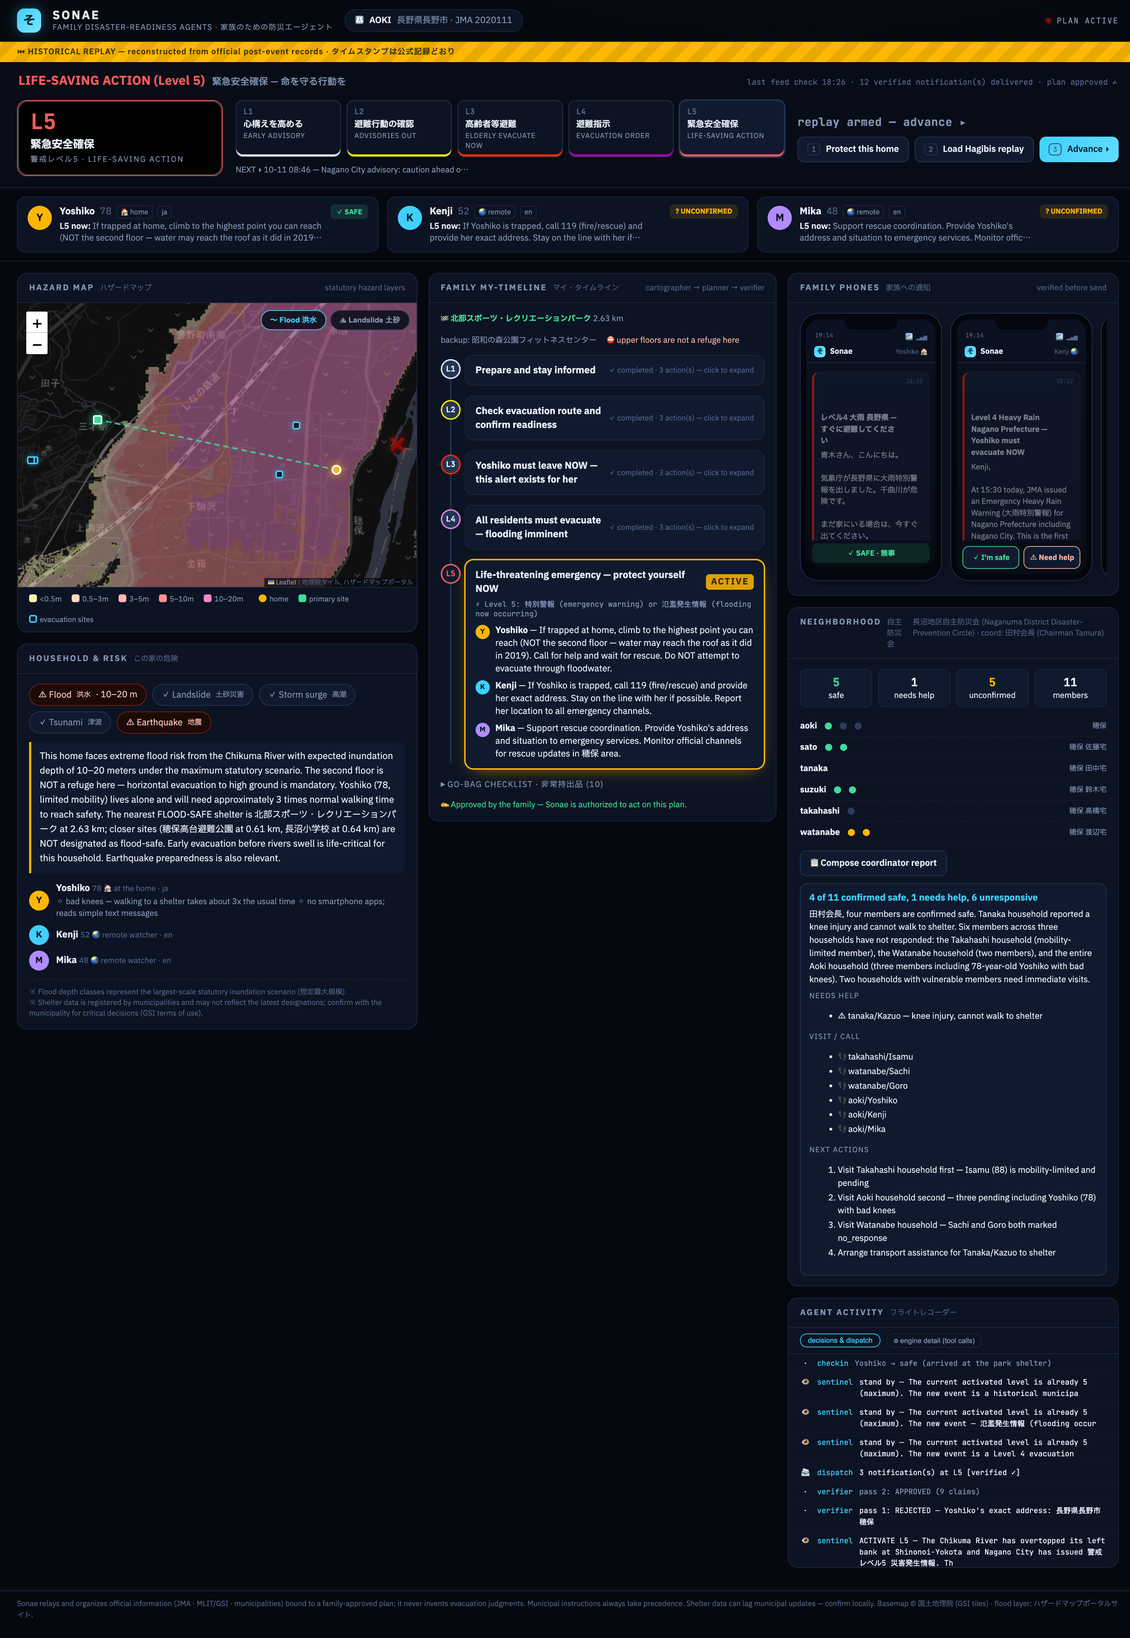
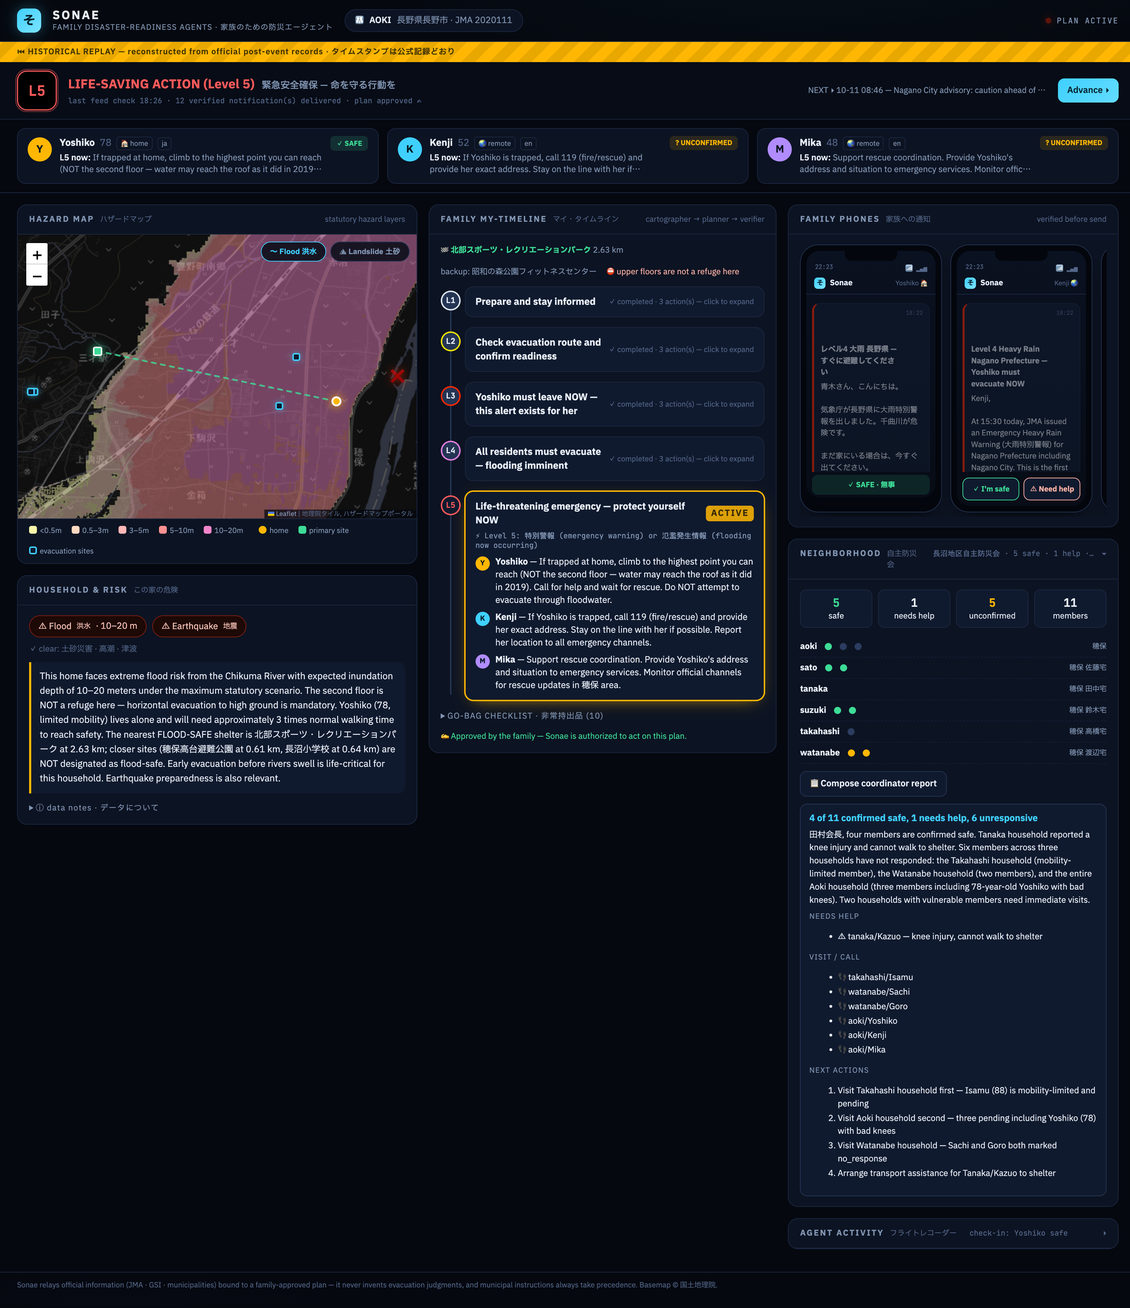
Simplify: strip the dashboard to its core, reveal complexity contextually
Always visible: one status sentence + level badge, the family, the map,
the timeline, and actual notifications. Everything else appears only when
it matters:
- L1-L5 ladder and the large level plate removed (redundant with badge+sentence)
- controls are contextual: approve when unapproved -> replay button when
  armed-able -> sim clock + NEXT + Advance only during a replay
- phones hidden behind a quiet one-liner until the first notification exists
- neighborhood board collapses to a one-line summary; auto-opens when
  someone needs help or check-ins are active
- flight recorder collapses to its latest line; auto-opens while agents work
- risk card: risks only + one muted all-clear line; family list removed
  (the family strip owns people); data notes behind an info disclosure
- footer shortened

Claude-Session: https://claude.ai/code/session_012EETc1sVcuUdF593pMuVPh

diff --git a/src/sonae/web/templates/index.html b/src/sonae/web/templates/index.html
@@ -45,11 +45,27 @@
   .ribbon.show{display:flex}
 
   /* ---------- status band ---------- */
-  .band{display:grid;grid-template-columns:290px 1fr auto;gap:14px 18px;align-items:stretch;padding:12px 24px 16px;border-bottom:1px solid var(--line);background:var(--bg2)}
-  .statusline{grid-column:1/-1;display:flex;align-items:baseline;gap:14px;padding:2px 2px 0;flex-wrap:wrap}
+  .band{padding:12px 24px;border-bottom:1px solid var(--line);background:var(--bg2)}
+  .statusrow{display:flex;align-items:center;gap:16px}
+  .lvlbadge{flex:none;width:56px;height:56px;border-radius:14px;display:grid;place-items:center;
+            font-family:var(--mono);font-size:20px;font-weight:700;border:1.5px solid var(--line2);
+            background:var(--panel);color:var(--cyan);position:relative}
+  .lvlbadge.c0{border-color:var(--cyan-deep);color:var(--cyan)}
+  .lvlbadge.c1{color:var(--l1)} .lvlbadge.c2{color:var(--l2);border-color:#6b6600}
+  .lvlbadge.c3{color:var(--l3);border-color:#8a1600;background:linear-gradient(160deg,#2a0b04,#160503)}
+  .lvlbadge.c4{color:#e07fe0;border-color:#5c0f5c;background:linear-gradient(160deg,#250425,#12021a)}
+  .lvlbadge.c5{color:#ff5a5a;border-color:#ff5a5a;background:#000}
+  .lvlbadge.pulse::after{content:"";position:absolute;inset:-4px;border-radius:16px;border:1.5px solid currentColor;opacity:0;animation:ring 1.6s infinite}
+  .statusline{min-width:0;display:flex;flex-direction:column;gap:3px}
   .statusline .big{font-size:17px;font-weight:700;letter-spacing:.01em}
   .statusline .big .ja{color:var(--dim);font-weight:500;margin-left:10px;font-size:13px}
-  .statusline .meta{margin-left:auto;font-family:var(--mono);font-size:11px;color:var(--faint)}
+  .statusline .meta{font-family:var(--mono);font-size:10.5px;color:var(--faint)}
+  .bandactions{margin-left:auto;display:flex;align-items:center;gap:12px;flex:none}
+  .quietline{color:var(--faint);font-size:12px;font-style:italic;padding:14px;text-align:center;line-height:1.6}
+  .cardtoggle{cursor:pointer;user-select:none}
+  .cardtoggle .lastline{font-size:10.5px;color:var(--faint);font-family:var(--mono);margin-left:10px;
+    overflow:hidden;text-overflow:ellipsis;white-space:nowrap;max-width:230px}
+  .infoBtn{background:none;border:0;color:var(--faint);cursor:pointer;font-size:11px;padding:0}
   .statusline.s-calm .big{color:var(--green)}
   .statusline.s-prep .big{color:var(--l2)}
   .statusline.s-act .big{color:#ff8f83}
@@ -86,41 +102,13 @@
   .feedbar{display:flex;gap:8px;align-items:center;padding:8px 16px;border-bottom:1px solid var(--line)}
   .fchip{border:1px solid var(--line);background:none;color:var(--dim);font-size:10px;border-radius:99px;padding:3px 10px;cursor:pointer}
   .fchip.on{border-color:var(--cyan);color:var(--cyan)}
-  .plate{border-radius:14px;padding:14px 18px;display:flex;flex-direction:column;justify-content:center;gap:2px;
-         border:1px solid var(--line2);background:var(--panel);position:relative;overflow:hidden}
-  .plate .lvl{font-family:var(--mono);font-size:30px;font-weight:700;line-height:1}
-  .plate .name{font-size:15px;font-weight:700;margin-top:4px}
-  .plate .en{font-size:10.5px;letter-spacing:.14em;color:var(--dim)}
-  .plate.c0{border-color:var(--cyan-deep)} .plate.c0 .lvl{color:var(--cyan)}
-  .plate.c1 .lvl{color:var(--l1)} .plate.c2 .lvl{color:var(--l2)}
-  .plate.c3{border-color:#8a1600;background:linear-gradient(160deg,#2a0b04,#160503)} .plate.c3 .lvl{color:var(--l3)}
-  .plate.c4{border-color:#5c0f5c;background:linear-gradient(160deg,#250425,#12021a)} .plate.c4 .lvl{color:#e07fe0}
-  .plate.c5{border-color:#ff5a5a;background:#000} .plate.c5 .lvl{color:#ff5a5a}
-  .plate.pulse::after{content:"";position:absolute;inset:0;border-radius:14px;border:1px solid currentColor;opacity:0;animation:ring 1.6s infinite}
   @keyframes ring{0%{opacity:.55;transform:scale(.985)}100%{opacity:0;transform:scale(1.03)}}
-
-  .ladder{display:flex;gap:8px;align-items:stretch}
-  .rung{flex:1;border:1px solid var(--line);border-radius:10px;padding:8px 10px;background:var(--panel);opacity:.55;transition:.3s}
-  .rung .no{font-family:var(--mono);font-size:11px;font-weight:700;color:var(--faint)}
-  .rung .ja{font-size:12px;font-weight:600;margin-top:2px}
-  .rung .en{font-size:9.5px;letter-spacing:.06em;color:var(--dim)}
-  .rung.on{opacity:1;border-color:var(--line2)}
-  .rung.on.k1{box-shadow:inset 0 -3px 0 var(--l1)} .rung.on.k2{box-shadow:inset 0 -3px 0 var(--l2)}
-  .rung.on.k3{box-shadow:inset 0 -3px 0 var(--l3)} .rung.on.k4{box-shadow:inset 0 -3px 0 var(--l4)}
-  .rung.on.k5{box-shadow:inset 0 -3px 0 #ff5a5a}
-  .rung.now{outline:1px solid var(--line2);background:var(--panel2)}
-
-  .deck{display:flex;flex-direction:column;gap:10px;justify-content:center;min-width:330px}
-  .clockrow{display:flex;align-items:baseline;gap:12px}
-  .simclock{font-family:var(--mono);font-size:26px;font-weight:700;color:var(--amber);letter-spacing:.02em}
-  .simclock.calm{color:var(--dim);font-size:16px}
-  .next{font-size:11px;color:var(--dim);max-width:330px;white-space:nowrap;overflow:hidden;text-overflow:ellipsis}
-  .controls{display:flex;gap:8px}
+  .simclock{font-family:var(--mono);font-size:16px;font-weight:700;color:var(--amber);letter-spacing:.02em}
+  .next{font-size:11px;color:var(--dim);max-width:340px;white-space:nowrap;overflow:hidden;text-overflow:ellipsis}
   .btn{display:inline-flex;align-items:center;gap:8px;border:1px solid var(--line2);background:var(--panel2);
        color:var(--text);font-family:var(--sans);font-size:12px;font-weight:600;border-radius:9px;padding:8px 13px;cursor:pointer;transition:.15s}
   .btn:hover:not(:disabled){border-color:var(--cyan);color:var(--cyan)}
   .btn:disabled{opacity:.35;cursor:default}
-  .btn .k{font-family:var(--mono);font-size:10px;color:var(--faint);border:1px solid var(--line2);border-radius:5px;padding:1px 5px}
   .btn.primary{background:linear-gradient(135deg,var(--cyan),#63dcff);color:#052330;border:0}
   .btn.primary:hover:not(:disabled){filter:brightness(1.1);color:#052330}
   .busy{display:none;align-items:center;gap:8px;font-family:var(--mono);font-size:11px;color:var(--cyan)}
@@ -131,7 +119,8 @@
   /* ---------- layout ---------- */
   main{display:grid;grid-template-columns:minmax(430px,1.15fr) minmax(400px,1fr) minmax(360px,.95fr);gap:16px;padding:16px 24px;align-items:start}
   @media (max-width:1250px){main{grid-template-columns:1fr 1fr}}
-  @media (max-width:950px){main{grid-template-columns:1fr}.band{grid-template-columns:1fr}.deck{min-width:0}
+  @media (max-width:950px){main{grid-template-columns:1fr}
+    .statusrow{flex-wrap:wrap}.bandactions{margin-left:0;width:100%;flex-wrap:wrap}
     .statusline .meta{margin-left:0;width:100%}.famstrip{flex-wrap:nowrap}}
   .card{background:var(--panel);border:1px solid var(--line);border-radius:14px;margin-bottom:16px;overflow:hidden}
   .card > .hd{display:flex;align-items:baseline;gap:8px;padding:12px 16px;border-bottom:1px solid var(--line)}
@@ -303,27 +292,13 @@
 <div class="ribbon" id="ribbon">⏮ HISTORICAL REPLAY — reconstructed from official post-event records · タイムスタンプは公式記録どおり</div>
 
 <div class="band">
-  <div class="statusline s-idle" id="statusline">
-    <span class="big" id="statusBig">…</span>
-    <span class="meta" id="statusMeta"></span>
-  </div>
-  <div class="plate c0" id="plate">
-    <div class="lvl" id="plateLvl">—</div>
-    <div class="name" id="plateName">Standing by</div>
-    <div class="en" id="plateEn">NO ACTIVE ALERT</div>
-  </div>
-  <div style="display:flex;flex-direction:column;gap:10px;justify-content:center">
-    <div class="ladder" id="ladder"></div>
-    <div class="next" id="next"></div>
-  </div>
-  <div class="deck">
-    <div class="clockrow"><span class="simclock calm" id="simClock">— live time —</span>
-      <span class="busy" id="busy"><span class="spin"></span><span id="busyLabel">agents working</span></span></div>
-    <div class="controls">
-      <button class="btn" id="btnOnboard"><span class="k">1</span> Protect this home</button>
-      <button class="btn" id="btnLoad"><span class="k">2</span> Load Hagibis replay</button>
-      <button class="btn primary" id="btnStep"><span class="k">3</span> Advance ▸</button>
+  <div class="statusrow">
+    <div class="lvlbadge c0" id="lvlBadge">◎</div>
+    <div class="statusline s-idle" id="statusline">
+      <span class="big" id="statusBig">…</span>
+      <span class="meta" id="statusMeta"></span>
     </div>
+    <div class="bandactions" id="bandActions"></div>
   </div>
 </div>
 
@@ -382,17 +357,22 @@
       <div class="bd"><div class="phones" id="phones"></div></div>
     </div>
     <div class="card" id="circleCard" style="display:none">
-      <div class="hd"><span class="t">NEIGHBORHOOD</span><span class="ja">自主防災会</span>
-        <span class="right" id="circleName"></span></div>
-      <div class="bd" id="circleBody"></div>
+      <div class="hd cardtoggle" onclick="circleToggle()"><span class="t">NEIGHBORHOOD</span><span class="ja">自主防災会</span>
+        <span class="lastline" id="circleMini"></span>
+        <span class="right" id="circleCaret">▸</span></div>
+      <div class="bd" id="circleBody" style="display:none"></div>
     </div>
     <div class="card">
-      <div class="hd"><span class="t">AGENT ACTIVITY</span><span class="ja">フライトレコーダー</span></div>
-      <div class="feedbar">
-        <button class="fchip on" id="fDecisions">decisions & dispatch</button>
-        <button class="fchip" id="fEngine" onclick="toggleEngine()">⚙ engine detail (tool calls)</button>
+      <div class="hd cardtoggle" onclick="feedToggle()"><span class="t">AGENT ACTIVITY</span><span class="ja">フライトレコーダー</span>
+        <span class="lastline" id="feedMini"></span>
+        <span class="right" id="feedCaret">▸</span></div>
+      <div id="feedWrap" style="display:none">
+        <div class="feedbar">
+          <button class="fchip on">decisions & dispatch</button>
+          <button class="fchip" id="fEngine" onclick="toggleEngine();event.stopPropagation()">⚙ engine detail (tool calls)</button>
+        </div>
+        <div class="feed" id="feed"><div class="empty">—</div></div>
       </div>
-      <div class="feed" id="feed"><div class="empty">—</div></div>
     </div>
   </section>
 </main>
@@ -421,9 +401,8 @@
 </div>
 
 <footer id="disclaimer">
-  Sonae relays and organizes official information (JMA · MLIT/GSI · municipalities) bound to a family-approved plan; it never
-  invents evacuation judgments. Municipal instructions always take precedence. Shelter data can lag municipal updates — confirm locally.
-  Basemap © 国土地理院 (GSI tiles) · flood layer: ハザードマップポータルサイト.
+  Sonae relays official information (JMA · GSI · municipalities) bound to a family-approved plan — it never invents
+  evacuation judgments, and municipal instructions always take precedence. Basemap © 国土地理院.
 </footer>
 
 <script src="https://unpkg.com/leaflet@1.9.4/dist/leaflet.js"></script>
@@ -506,8 +485,41 @@ function drawShelters(profile, plan){
   }
 }
 
+function loadReplay(){ return post("/api/replay/load", {household:HOUSEHOLD}); }
+function stepReplay(){ return post("/api/replay/step", {household:HOUSEHOLD}); }
+
+function renderBandActions(s, level){
+  const el = $("bandActions");
+  const r = s.replay || {};
+  let html = "";
+  if(s.busy){
+    html += `<span class="busy show"><span class="spin"></span>${esc(s.busy)} · agents working</span>`;
+  }
+  if(!s.household){
+    el.innerHTML = html; return;
+  }
+  if(s.plan && !s.plan.family_approved && !s.busy){
+    html += `<button class="approveBtn" style="margin-top:0" onclick="approvePlan()">✍ Approve — authorize Sonae</button>`;
+  } else if(r.loaded && !r.exhausted){
+    if(r.now) html += `<span class="simclock" style="font-size:18px">${esc(r.now.slice(5,10).replace("-","/") + " " + r.now.slice(11,16))} JST</span>`;
+    if(r.next) html += `<span class="next">NEXT ▸ ${esc(r.next.ts.slice(5,16).replace("T"," "))} — ${esc(r.next.title)}</span>`;
+    html += `<button class="btn primary" onclick="stepReplay()" ${s.busy?"disabled":""}>Advance ▸</button>`;
+  } else if(r.loaded && r.exhausted){
+    html += `<span class="next">replay complete — the family was long safe when the levee failed.</span>`;
+  } else if(s.plan && s.plan.family_approved && !s.busy){
+    html += `<button class="btn" onclick="loadReplay()">⏮ Hagibis 2019 replay</button>`;
+  }
+  el.innerHTML = html;
+}
+
 function renderStatusLine(s, level){
   const el = $("statusline"), big = $("statusBig"), meta = $("statusMeta");
+  const badge = $("lvlBadge");
+  badge.className = `lvlbadge c${level}` + (level>=3 ? " pulse" : "");
+  badge.textContent = level ? `L${level}` : "◎";
+  const w0 = $("watching");
+  w0.classList.toggle("alert", level>=3);
+  $("watchLabel").textContent = (s.replay&&s.replay.loaded) ? (level>=3?"PLAN ACTIVE":"REPLAY ARMED") : (s.household?"WATCHING":"STANDBY");
   let cls = "s-idle", en = "", ja = "", m = [];
   const w = s.watch || {};
   if(!s.household){
@@ -589,23 +601,6 @@ async function toggleHhMenu(){
   hhMenuLoaded = true;
 }
 
-function renderBand(level, s){
-  const meta = LEVELS[level] || LEVELS[0];
-  const plate = $("plate");
-  plate.className = `plate c${level}` + (level>=3 ? " pulse" : "");
-  $("plateLvl").textContent = level ? `L${level}` : "◎";
-  $("plateName").textContent = meta.name;
-  $("plateEn").textContent = (meta.ja ? meta.ja + " · " : "") + meta.en;
-  const ladder = $("ladder");
-  ladder.innerHTML = [1,2,3,4,5].map(i => `
-    <div class="rung k${i} ${level>=i?"on":""} ${level===i?"now":""}">
-      <div class="no">L${i}</div><div class="ja">${LEVELS[i].name}</div><div class="en">${LEVELS[i].en}</div>
-    </div>`).join("");
-  const w = $("watching");
-  w.classList.toggle("alert", level>=3);
-  $("watchLabel").textContent = s.replay.loaded ? (level>=3?"PLAN ACTIVE":"REPLAY ARMED") : (s.household?"WATCHING":"STANDBY");
-}
-
 function avatarColor(name, members){
   const i = Math.max(0, members.findIndex(m => m.name === name));
   return AVA_COLORS[i % AVA_COLORS.length];
@@ -618,22 +613,21 @@ function renderRisk(s){
   $("hhChip").innerHTML = `👨👩👧 <b>${esc(h.household_id.toUpperCase())}</b> <span>${esc(h.pref_name)}${esc(h.muni_name)} · JMA ${esc(h.jma_class20_code||"")}</span>`;
   let html = "";
   if(p){
-    html += `<div class="hazrow">` + p.assessments.map(a => {
+    // Risks first-class; the all-clear hazards shrink to one muted line.
+    const risky = p.assessments.filter(a => a.at_risk);
+    const clear = p.assessments.filter(a => !a.at_risk);
+    html += `<div class="hazrow">` + risky.map(a => {
       const [en, ja] = HAZ[a.hazard] || [a.hazard, ""];
-      return `<span class="haz ${a.at_risk?"risk":"ok"}">${a.at_risk?"⚠":"✓"} ${en} <small>${ja}</small>${a.at_risk&&a.severity?` · ${esc(a.severity.replace("expected flood depth ",""))}`:""}</span>`;
+      return `<span class="haz risk">⚠ ${en} <small>${ja}</small>${a.severity?` · ${esc(a.severity.replace("expected flood depth ",""))}`:""}</span>`;
     }).join("") + `</div>`;
+    if(clear.length) html += `<div style="font-size:11px;color:var(--faint);margin:-4px 0 10px">
+      ✓ clear: ${clear.map(a => (HAZ[a.hazard]||[a.hazard])[1] || a.hazard).join(" · ")}</div>`;
     html += `<div class="summary">${esc(p.summary)}</div>`;
+    if(p.caveats && p.caveats.length)
+      html += `<details class="supplies"><summary>ⓘ data notes · データについて</summary>
+        <div class="caveat" style="border:0;padding-top:6px">※ ${p.caveats.map(esc).join("<br>※ ")}</div></details>`;
   }
-  html += `<div class="members">` + h.members.map((m,i) => `
-    <div class="member">
-      <div class="ava" style="background:${AVA_COLORS[i%AVA_COLORS.length]}">${initial(m.name)}</div>
-      <div><b>${esc(m.name)}</b>${m.age?` <span class="meta">${m.age}</span>`:""}
-        <span class="meta">${m.lives_at_home?"🏠 at the home":"🌏 remote watcher"} · ${esc(m.preferred_language)}</span>
-        ${m.needs&&m.needs.length?`<div class="needs">◦ ${esc(m.needs.join(" ◦ "))}</div>`:""}
-      </div>
-    </div>`).join("") + `</div>`;
-  if(p && p.caveats && p.caveats.length) html += `<div class="caveat">※ ${p.caveats.map(esc).join("<br>※ ")}</div>`;
-  $("riskBody").innerHTML = html;
+  $("riskBody").innerHTML = html || '<div class="empty">—</div>';
 }
 
 const tlManual = {};
@@ -691,6 +685,13 @@ function renderPhones(s){
   const h = s.household;
   if(!h) { $("phones").innerHTML = '<div class="empty">—</div>'; return; }
   const inbox = s.inbox || [];
+  // Simplicity: no phones until there is something on them. The phones appear
+  // the moment the first verified notification (or check-in request) exists.
+  if(!inbox.length && !(s.checkins||[]).length){
+    $("phones").innerHTML = `<div class="quietline">No notifications yet — when official signals fire,
+      each family member's verified message appears here in their own language.<br>通知はまだありません · そなえは静かに見守り中</div>`;
+    return;
+  }
   const byMember = {};
   for(const n of inbox) (byMember[n.to_member] = byMember[n.to_member] || []).push(n);
   const ci = {};
@@ -741,16 +742,35 @@ function renderBreachMarkers(replay, level){
   }
 }
 
-let circleTick = 0;
-async function renderCircle(circleId){
+// Progressive disclosure: the neighborhood board stays a one-line summary
+// until someone needs help, an evacuation-level event opens check-ins, or
+// the coordinator clicks it open.
+let circleTick = 0, circleOpen = null, lastCircleLevel = 0;
+function circleToggle(){
+  const auto = _circleAuto();
+  circleOpen = !((circleOpen === null) ? auto : circleOpen);
+  _applyCircleOpen();
+}
+let _circleAutoState = false;
+function _circleAuto(){ return _circleAutoState; }
+function _applyCircleOpen(){
+  const open = (circleOpen === null) ? _circleAuto() : circleOpen;
+  $("circleBody").style.display = open ? "" : "none";
+  $("circleCaret").textContent = open ? "▾" : "▸";
+}
+async function renderCircle(circleId, level){
   const card = $("circleCard");
   if(!circleId){ card.style.display = "none"; return; }
   card.style.display = "";
+  lastCircleLevel = level || 0;
   if(circleTick++ % 2 !== 0) return;  // poll circle at half rate
   try{
     const c = await (await fetch(`/api/circle/${circleId}`)).json();
-    $("circleName").textContent = `${c.circle.name} · coord: ${c.circle.coordinator}`;
     const k = c.counts;
+    _circleAutoState = (k.needs_help||0) > 0 || lastCircleLevel >= 4;
+    $("circleMini").textContent =
+      `${c.circle.name.split(" (")[0]} · ${k.safe||0} safe · ${(k.needs_help||0)} help · ${(k.pending||0)+(k.no_response||0)} unconfirmed`;
+    _applyCircleOpen();
     let html = `<div class="counts">
       <div class="cnt safe"><b>${k.safe||0}</b>safe</div>
       <div class="cnt help"><b>${k.needs_help||0}</b>needs help</div>
@@ -780,8 +800,38 @@ function toggleEngine(){
   document.getElementById("fEngine").classList.toggle("on", showEngine);
 }
 
-function renderFeed(journal){
+// Flight recorder: collapsed to its latest line by default; auto-opens while
+// agents are actively working (that's when it IS the progress view).
+let feedOpen = null, _feedAutoState = false;
+function feedToggle(){
+  feedOpen = !((feedOpen === null) ? _feedAutoState : feedOpen);
+  _applyFeedOpen();
+}
+function _applyFeedOpen(){
+  const open = (feedOpen === null) ? _feedAutoState : feedOpen;
+  $("feedWrap").style.display = open ? "" : "none";
+  $("feedCaret").textContent = open ? "▾" : "▸";
+}
+
+function _feedRowText(j){
+  switch(j.kind){
+    case "sentinel_decision": return j.triggered ? `sentinel: ACTIVATE L${j.level}` : "sentinel: stand by";
+    case "notifications_sent": return `dispatched ${j.count} at L${j.level}`;
+    case "verification": return `verifier pass ${j.attempt}: ${j.approved ? "approved" : "rejected"}`;
+    case "onboarding_complete": return "plan built & verified";
+    case "plan_approved": return "plan approved";
+    case "checkin": return `check-in: ${j.member} ${j.status}`;
+    case "error": return `error: ${j.op}`;
+    default: return null;
+  }
+}
+
+function renderFeed(journal, busy){
+  _feedAutoState = !!busy;
   const rows = (journal||[]).filter(j => showEngine || (j.kind !== "tool_call" && j.kind !== "tool_result"));
+  const last = [...(journal||[])].reverse().map(_feedRowText).find(Boolean);
+  $("feedMini").textContent = busy ? `⏳ ${busy} · agents working…` : (last || "");
+  _applyFeedOpen();
   $("feed").innerHTML = rows.slice().reverse().map(j => {
     let who = j.agent || "", what = "", cls = "";
     switch(j.kind){
@@ -861,39 +911,21 @@ async function submitOnboard(){
 async function approvePlan(){
   await post("/api/approve", {household: HOUSEHOLD});
 }
-$("btnOnboard").onclick = openOnboard;
-$("btnLoad").onclick = () => post("/api/replay/load", {household:HOUSEHOLD});
-$("btnStep").onclick = () => post("/api/replay/step", {household:HOUSEHOLD});
-
 async function tick(){
   try{
     const s = await (await fetch(`/api/state?household=${HOUSEHOLD}`)).json();
     const level = (s.watch && s.watch.activated_level) || 0;
     renderStatusLine(s, level);
+    renderBandActions(s, level);
     renderFamStrip(s, level);
-    renderBand(level, s);
     renderRisk(s);
     renderPlan(s, level);
     renderPhones(s);
-    renderCircle(s.circle);
-    renderFeed(s.journal);
+    renderCircle(s.circle, level);
+    renderFeed(s.journal, s.busy);
     if(s.household){ initMap(s.household, s.profile, s.plan); drawShelters(s.profile, s.plan); }
     renderBreachMarkers(s.replay, level);
-    $("busy").classList.toggle("show", !!s.busy);
-    $("busyLabel").textContent = s.busy ? `${s.busy} · agents working` : "";
-    $("btnStep").disabled = !!s.busy || !s.replay.loaded || !!s.replay.exhausted;
-    $("btnOnboard").disabled = !!s.busy;
-    $("ribbon").classList.toggle("show", !!s.replay.loaded);
-    const clock = $("simClock");
-    if(s.replay.now){
-      clock.classList.remove("calm");
-      clock.textContent = s.replay.now.slice(5,10).replace("-","/") + " " + s.replay.now.slice(11,16) + " JST";
-    } else {
-      clock.classList.add("calm");
-      clock.textContent = s.replay.loaded ? "replay armed — advance ▸" : new Date().toLocaleTimeString("ja-JP",{hour:"2-digit",minute:"2-digit"}) + " live";
-    }
-    $("next").textContent = s.replay.next ? `NEXT ▸ ${s.replay.next.ts.slice(5,16).replace("T"," ")} — ${s.replay.next.title}`
-                          : (s.replay.exhausted ? "replay complete — the levee at Hoyasu failed at dawn; this family was out by 18:15." : "");
+    $("ribbon").classList.toggle("show", !!(s.replay && s.replay.loaded));
   }catch(e){/* server restarting */}
 }
 setInterval(tick, 1500); tick();
